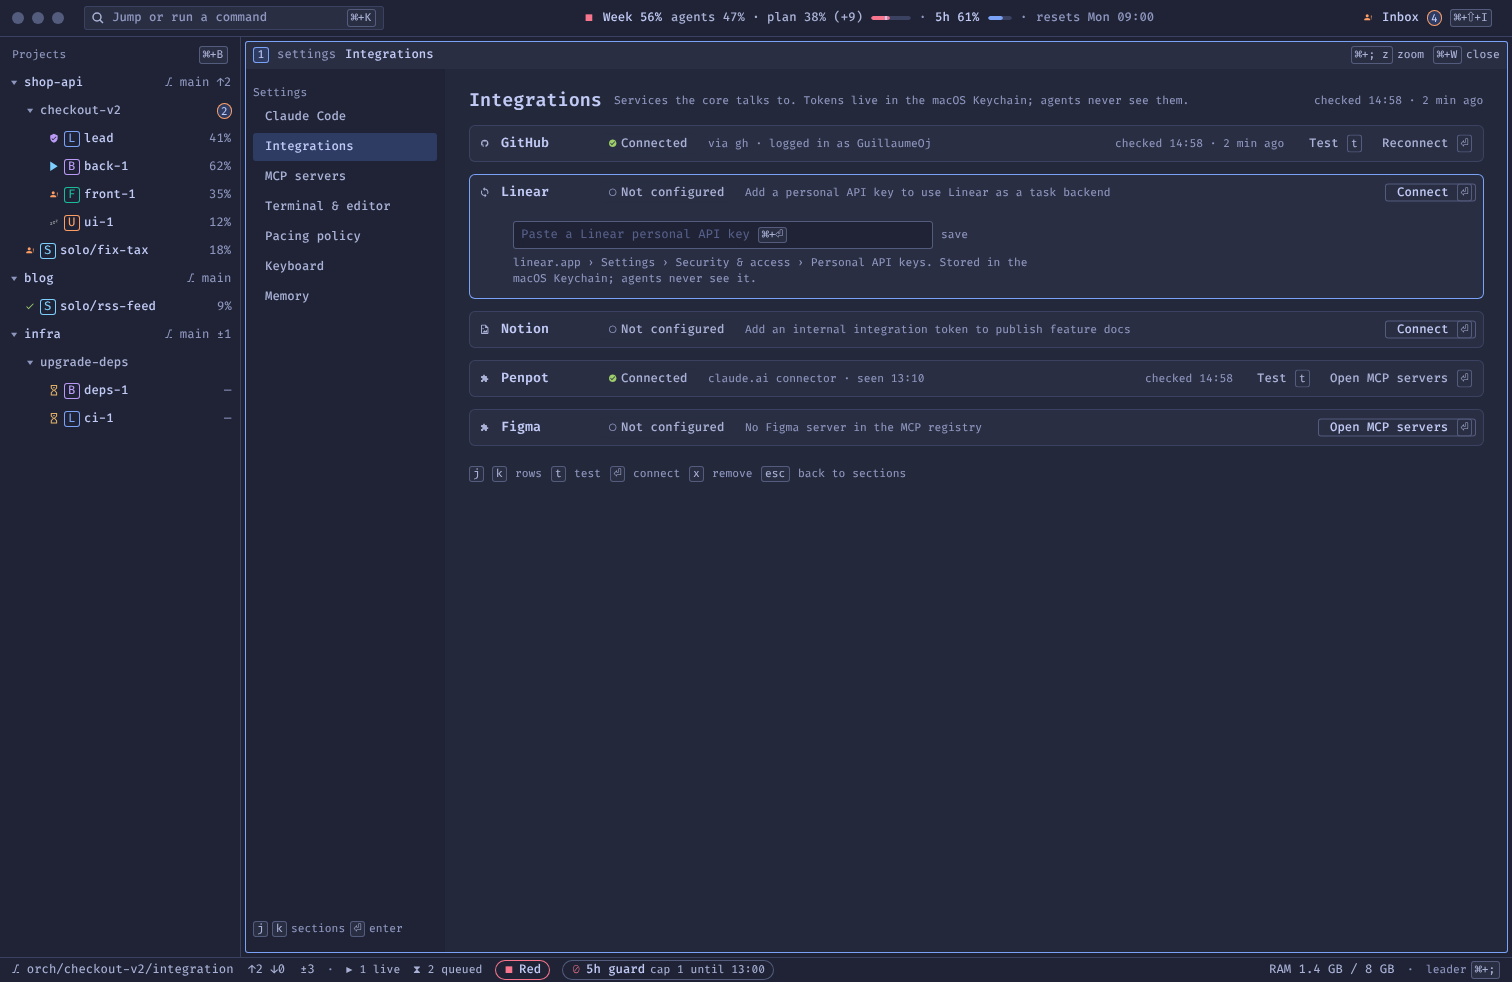
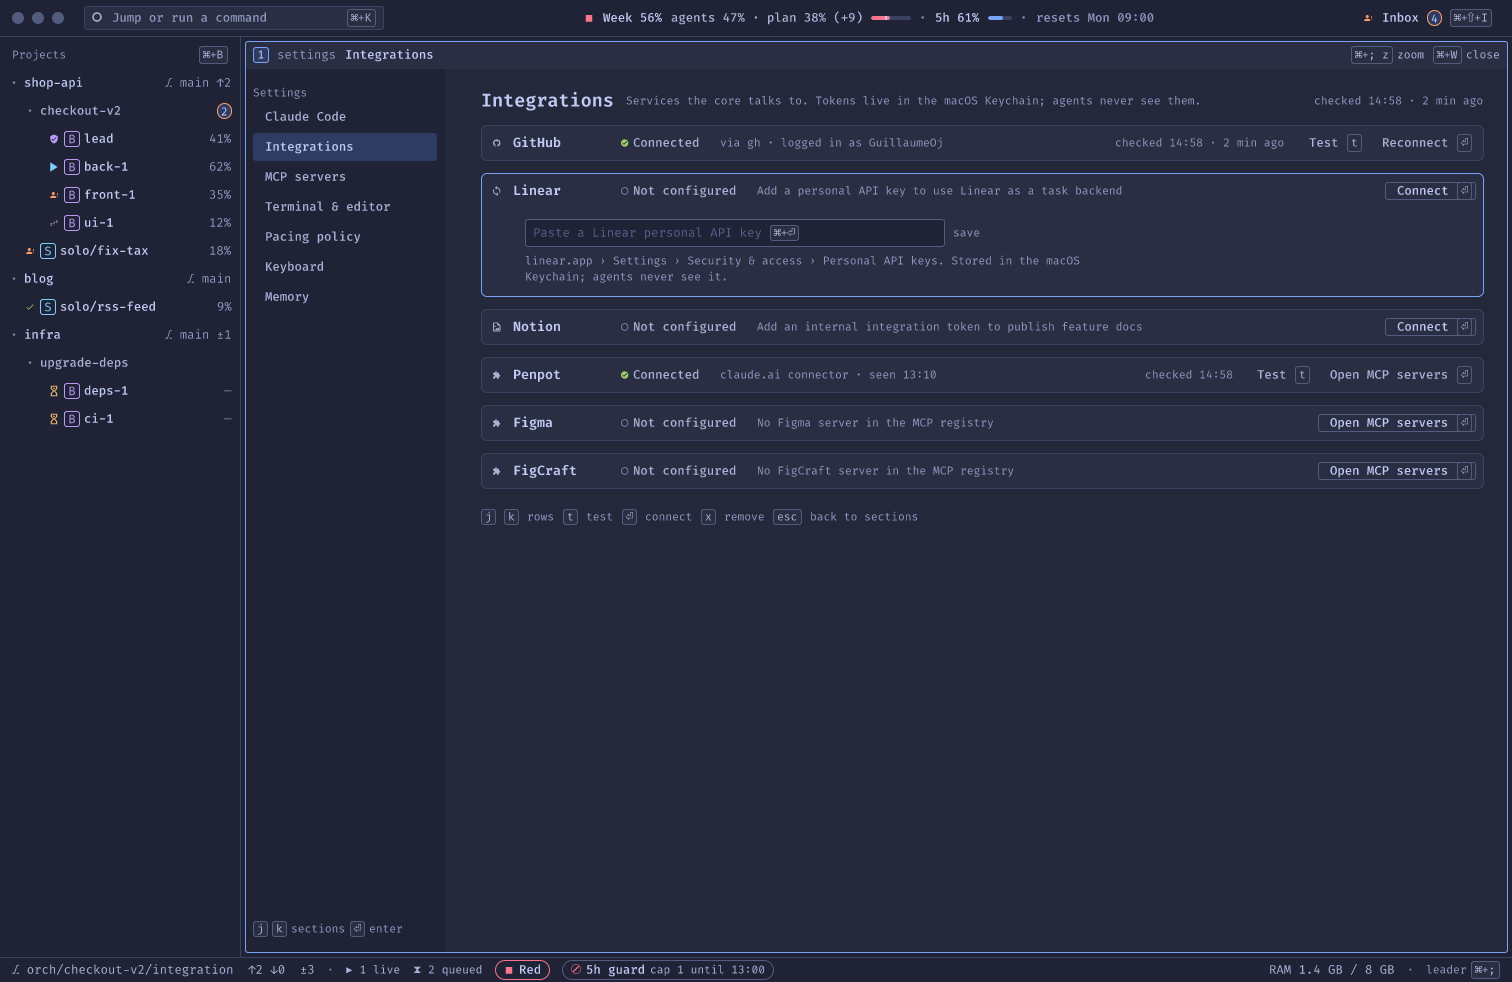
design(add-figcraft-integration): FigCraft on 04.7 Settings + exports
- Integrations: FigCraft row last (Not configured, glyph U+F0431 as Penpot/Figma); loading note lists FigCraft
- New board "Settings · FigCraft · states": Not configured / Connected / Error rows, MCP table row, Design tool select with FigCraft
- New frame "Settings · MCP servers · FigCraft draft · 1512": stdio draft (id figcraft, name FigCraft, command placeholder figcraft-cli, args mcp, hint)
- Exports under design/, refreshed 04-settings-integrations.png, README status row

diff --git a/docs/design/README.md b/docs/design/README.md
@@ -17,6 +17,7 @@ The UI source of truth is the FigCraft file [`Orchestrator.figcraft`](Orchestrat
 | 04.5 Inbox | P1 Inbox, PR update gate states (history: the Inbox pane is removed in P4.3, its cards are on 04.3) | P1 Ready for dev |
 | 04.6 Planner & reports | P1 Week planner. **P3**: Weekly report, model windows and off-hours (+ states) | P1 Ready for dev · **P3 In review** |
 | 04.7 Settings | **P3**: Settings Integrations and MCP servers (+ states), Project settings Linear (+ states). **Allocation**: Project settings Allocation 1512 (+ Light copy, states 1–9) and the Week planner plan editor with not in plan rows (state 10) | **P3 In review** |
+| 04.7 Settings · FigCraft (add-figcraft-integration) | Integrations: FigCraft row last, Not configured (glyph U+F0431, as Penpot/Figma); board "Settings · FigCraft · states" (x = 4836): row Not configured / Connected / Error, MCP table row, Design tool select with FigCraft; "Settings · MCP servers · FigCraft draft · 1512" (x = 6036): new stdio draft (id figcraft, command placeholder figcraft-cli, args mcp, hint). Exports: `.orchestrator/features/add-figcraft-integration/design/` | **In review** |
 | 05 Keyboard & copy | Global, leader and pane-local shortcut maps (**P2**: Team canvas, Board, Feature rows); P0 conflicts; banner, notification and toast copy; copy rules. **P4.2**: Mission control keys, leader `o`, conflicts. **P4.3**: "P4.3 · Chat keys" (⌘⇧I, ⌘L, chat map, conflicts, palette); the Inbox row of the pane-local map removed; "Inbox" strings reworded | P1 Ready for dev · **P2 Ready for dev** · **P4.2 In review** · **P4.3 In review** |
 | 06.1 J12 storyboard | **P4.2 Part B**: J12 in 5 annotated frames (morning line, the day settled, ask why, third time a rule, watch don't open), callouts, keys, "Interventions this day: 0" | **P4.2 Part B In review** |
 | 06 Flows | Storyboards (annotated frames, no clickable prototype): J2 solo session (5 frames), J5 Inbox triage (6), J8 pacing the week (4). **P2**: J3 team on a feature, 5 notes over the 04 frames (y = 4500). **P4.3**: J5 replayed in the chat, 6 frames "P4.3 · J5 · …" (y = 7200); the P1 J5 Inbox frames stay as history | P1 Ready for dev · **P2 Ready for dev** · **P4.3 In review** |
